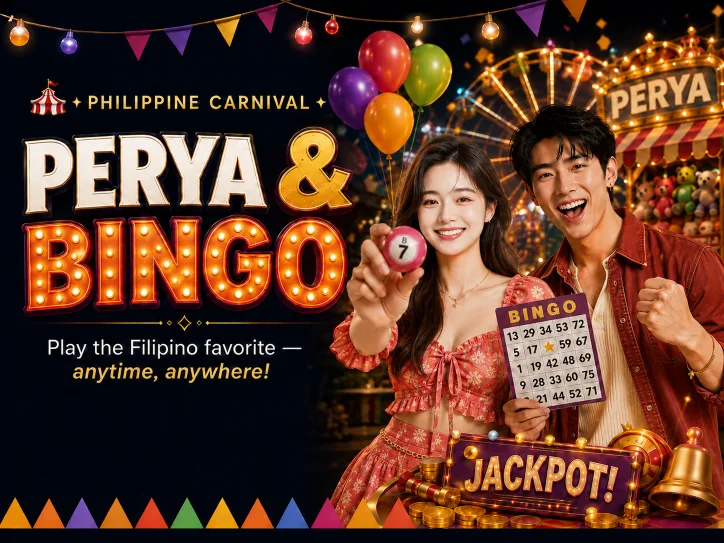
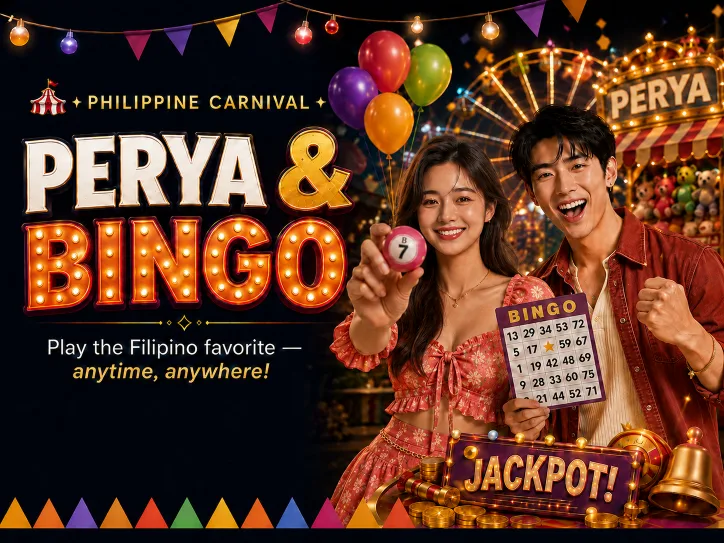
更新 Bonuses 和 Perya 页 hero 图

diff --git a/apps/web-tma/src/views/BonusesPage.tsx b/apps/web-tma/src/views/BonusesPage.tsx
@@ -1,9 +1,10 @@
 import { useState, useEffect, useMemo } from 'react'
 import { useTranslation } from 'react-i18next'
 import { Trophy, ChevronDown, Users, Wallet } from 'lucide-react'
-import { BONUS_WINNERS, PROMOS, PROMO_STATS } from '@/data/promos'
+import { BONUS_WINNERS, PROMOS } from '@/data/promos'
 import { usePromotionStore, getHighlightMap } from '@/stores/promotion'
 import { useAuthStore } from '@/stores/auth'
+import bonusesHero from '@/assets/home/promos/bonuses-hero.webp'
 
 interface Props {
   promoFilter?: string | null
@@ -117,15 +118,6 @@ export default function BonusesPage({ promoFilter, onOpenWallet, onOpenTeam }: P
     [t, promoConfig],
   )
 
-  const localizedStats = useMemo(
-    () =>
-      PROMO_STATS.map((s, i) => {
-        const keys = ['distributed', 'active', 'winnersToday'] as const
-        return { ...s, label: t(`bonuses.stats.${keys[i]}`) }
-      }),
-    [t],
-  )
-
   const agentSteps = useMemo(
     () => [t('bonuses.promos.agent.step1'), t('bonuses.promos.agent.step2'), t('bonuses.promos.agent.step3')],
     [t],
@@ -133,28 +125,8 @@ export default function BonusesPage({ promoFilter, onOpenWallet, onOpenTeam }: P
 
   return (
     <div className="page-main">
-      <div
-        className="relative px-4 pt-3 pb-5 overflow-hidden"
-        style={{ background: 'linear-gradient(160deg, #1a0060 0%, #080b14 60%)' }}
-      >
-        <p className="text-muted-foreground text-[11px] uppercase tracking-widest font-bold mb-1">
-          {t('bonuses.exclusive')}
-        </p>
-        <h1 className="text-white font-black leading-tight mb-1 font-display text-[1.8rem]">
-          {t('bonuses.titleLine1')}
-          <br />
-          <span className="text-primary">{t('bonuses.titleLine2')}</span>
-        </h1>
-        <p className="text-white/50 text-xs max-w-[220px] leading-relaxed">{t('bonuses.heroSub')}</p>
-        <div className="flex gap-3 mt-4">
-          {localizedStats.map((s) => (
-            <div key={s.label} className="flex-1 bg-white/5 rounded-xl px-2.5 py-2 text-center border border-white/8">
-              <p className="text-base leading-none mb-0.5">{s.icon}</p>
-              <p className="text-primary font-black text-sm leading-none">{s.value}</p>
-              <p className="text-white/40 text-[9px] mt-0.5 leading-tight">{s.label}</p>
-            </div>
-          ))}
-        </div>
+      <div className="relative overflow-hidden bg-[#080b14]">
+        <img src={bonusesHero} alt="" className="block w-full h-auto" />
       </div>
 
       <div className="mx-4 mt-3 bg-secondary rounded-xl px-3 py-2 flex items-center gap-2 overflow-hidden">
